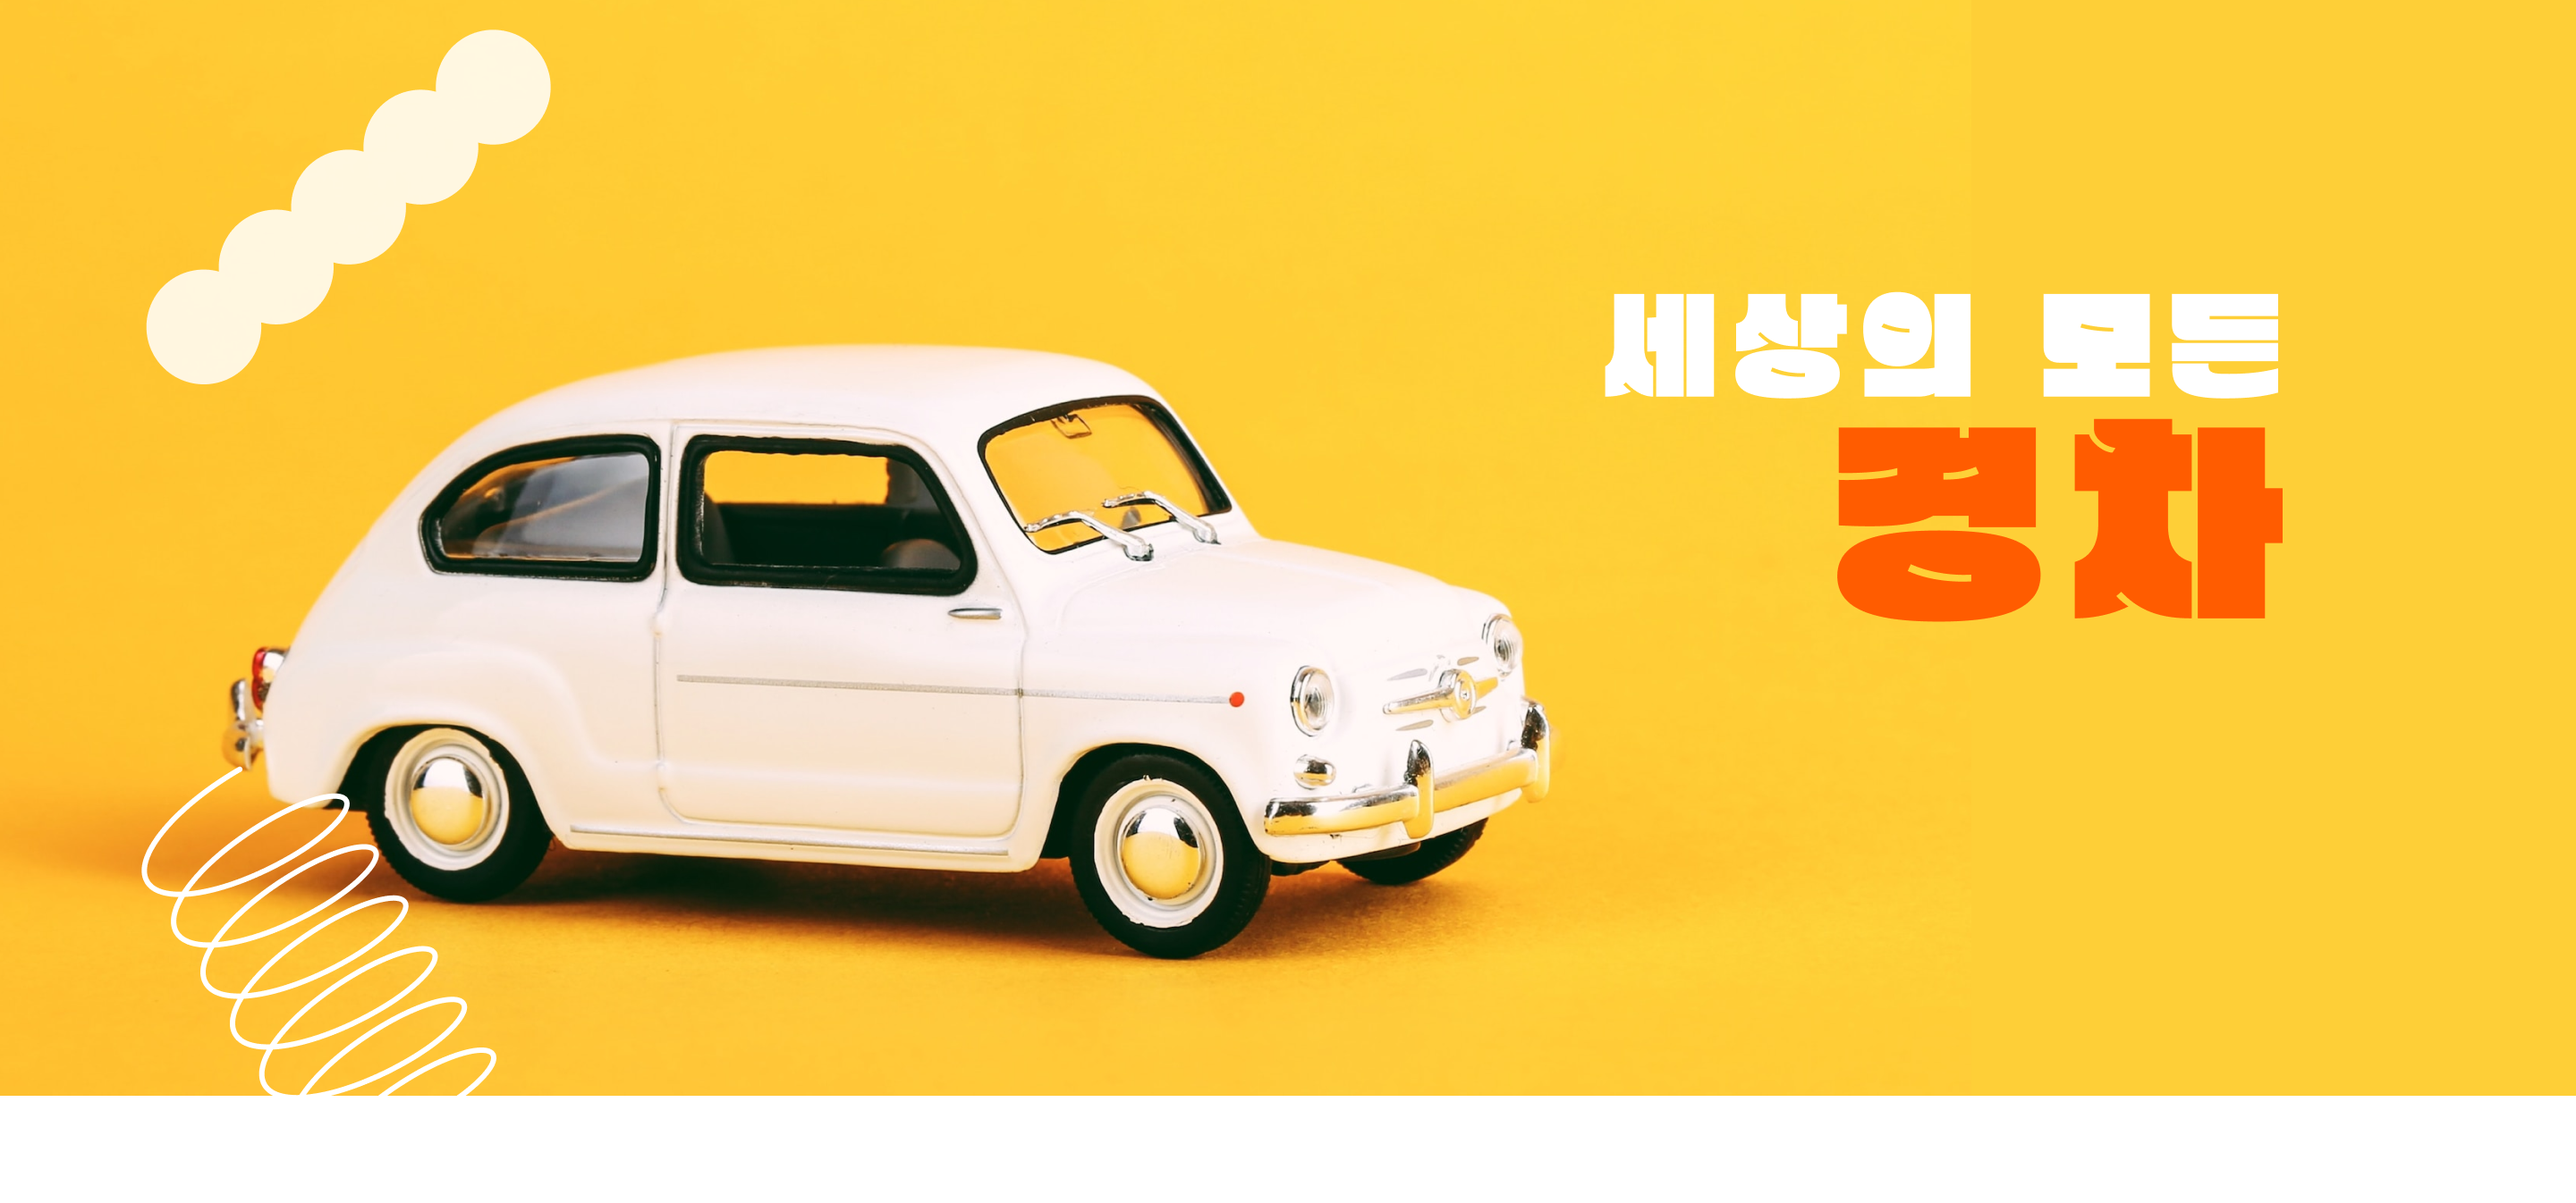
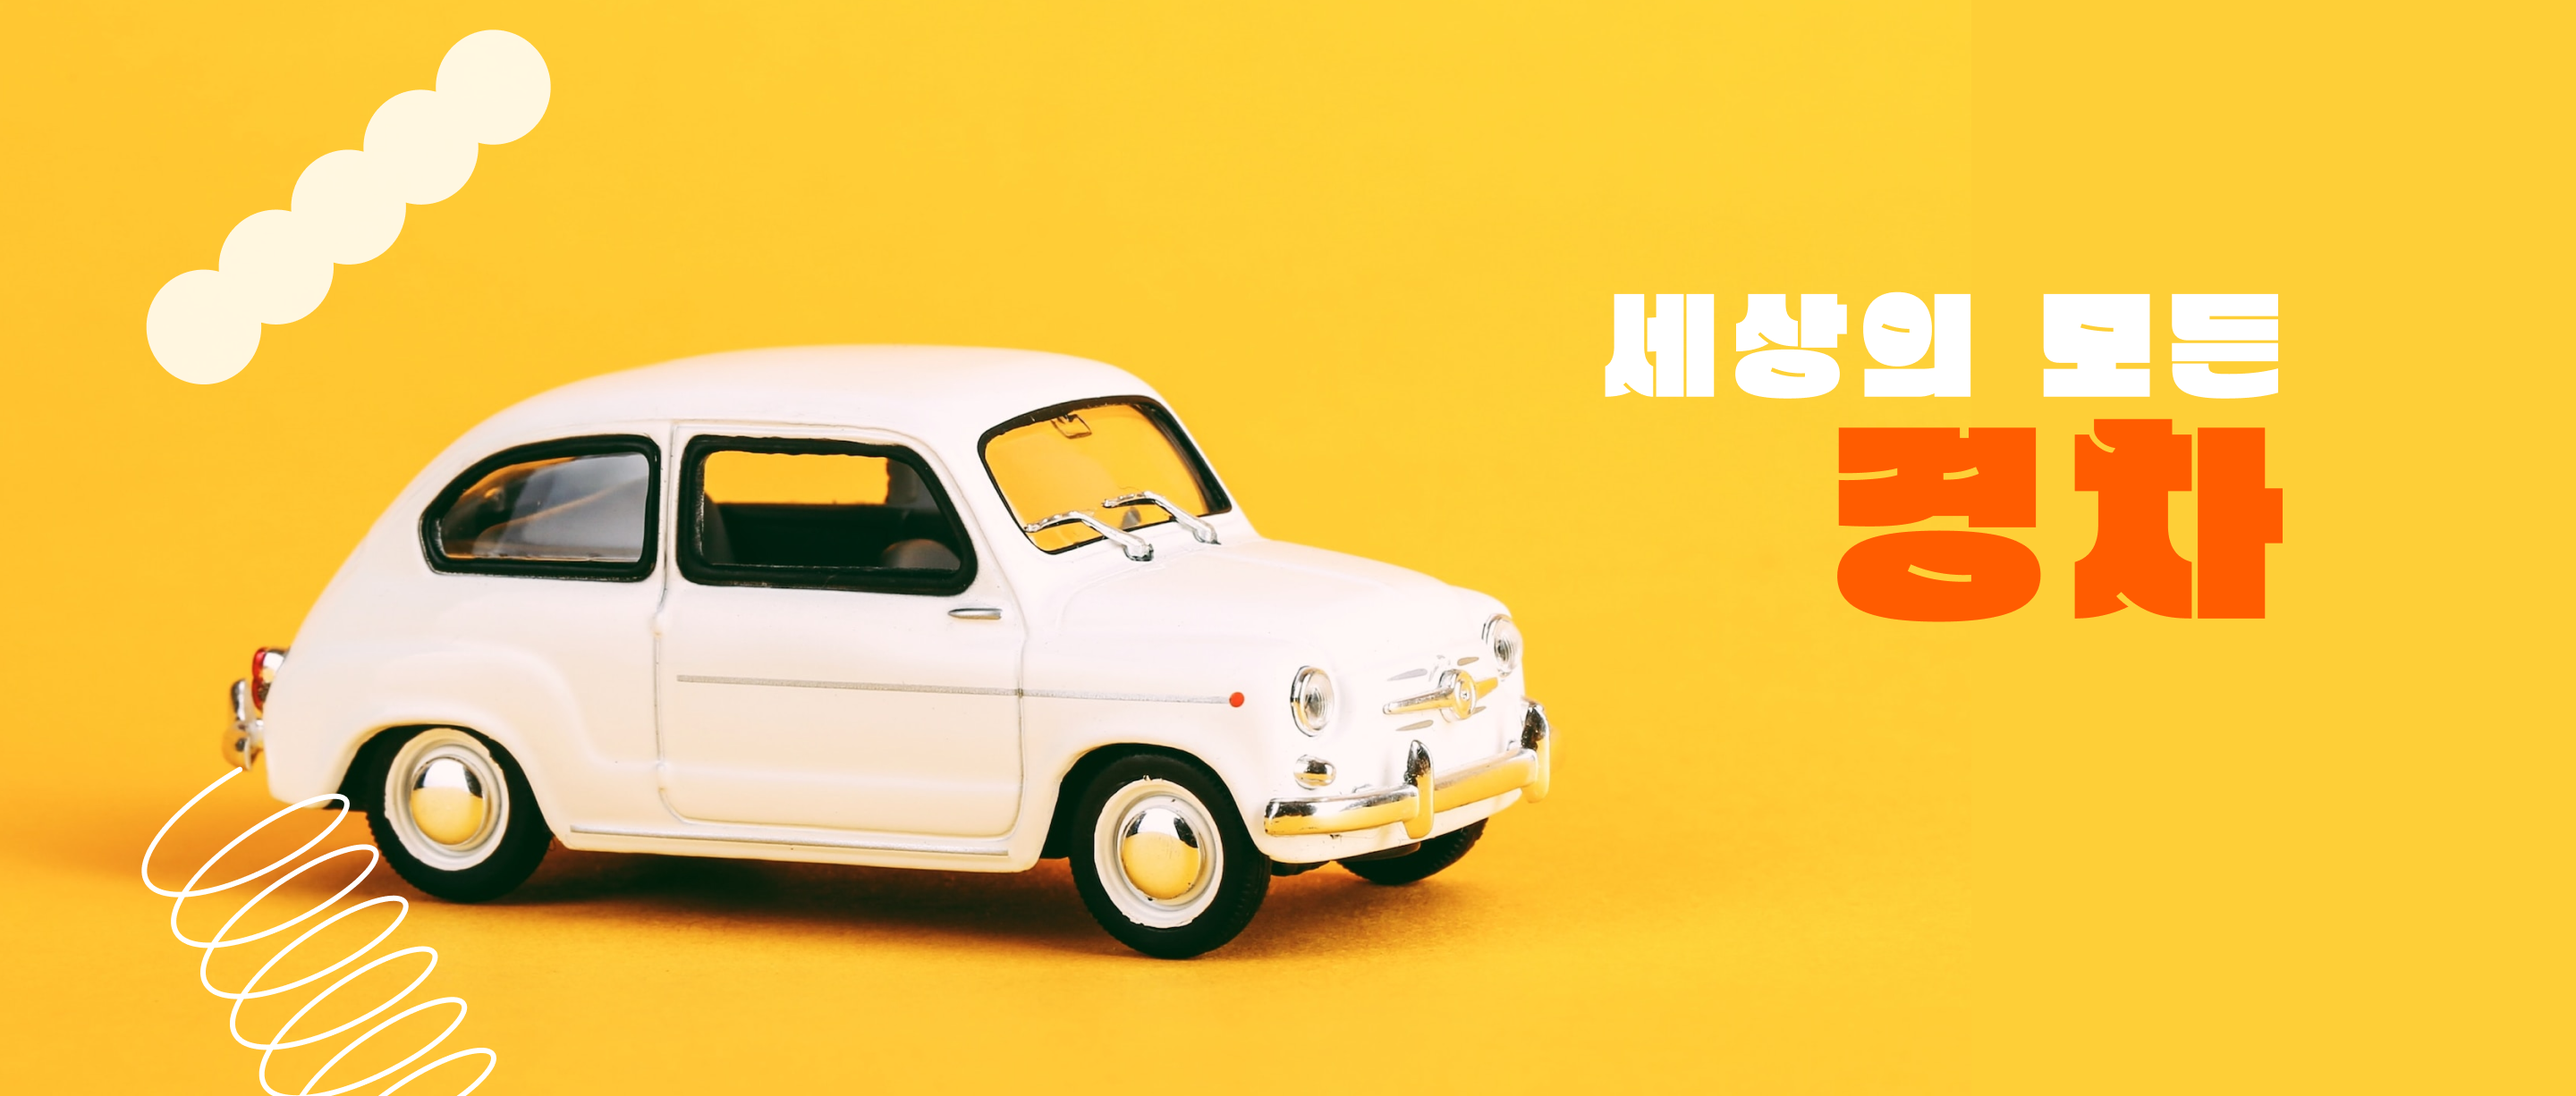
size Fix banner3 or Add btn

diff --git a/src/pages/main.tsx b/src/pages/main.tsx
@@ -9,14 +9,13 @@ import { Grid, Typography, Button } from '@mui/material'
 import 'swiper/css';
 import 'swiper/css/scrollbar';
 import "swiper/css/navigation";
-import "swiper/css/pagination";
 
 // COMPONENTS
 import { BrandNav } from '../components/BrandNav'
 
 // STYLED-COMPONENTS
 import { MaxContainer, Blank } from '../App';
-const FirstSwiper = styled(Swiper)`
+const BannerSwiper = styled(Swiper)`
 && {
   min-width: 1100px;
   margin-top: 80px;
@@ -42,14 +41,13 @@ const BannerBackgound = styled.img`
 && {
   position: relative;
   width: 100%;
-  max-height: 500px;
 }
 `;
 const Banner = styled.img`
 && {
   z-index: 1;
+  width: 100%;
   max-width: 1100px;
-  height: 100%;
   position: absolute;
   left: 50%;
   top: 50%;
@@ -142,7 +140,7 @@ const GalleryGrid = styled(Grid)`
 export function Main ():JSX.Element {
   const navigate = useNavigate();
 
-  const [carImg, setCarImg] = useState([1,2,3,4,5]);
+  const [carImg, setCarImg] = useState([1,2,3,4]);
   const [carCount, setCarCount] = useState([1,2,3,4,5,6,7,8,9,10,11]);
   const [carPhoto, setCarPhoto] = useState([
     {id: 10220, name : '쏘나타 디 엣지', imgUrl: 'hyundai/Sonata'},
@@ -158,7 +156,7 @@ export function Main ():JSX.Element {
   return (
     <>
       {/* 메인배너 SLIDE */}
-      <FirstSwiper
+      <BannerSwiper
         scrollbar={{
           hide:false,
         }}
@@ -179,12 +177,12 @@ export function Main ():JSX.Element {
         {
           carImg.map((a, i)=>(
             <SwiperSlide key={carImg[i]}>
-              <BannerBackgound src={`https://via.placeholder.com/1100x500/D8D8D8?text=Background Banner ${i+1}`} alt={`BACKGROUND${i+1}`} />
-              <Banner src={`https://via.placeholder.com/1100x500?text=Test Banner ${i+1}`} alt={`SLIDE${i+1}`}></Banner>
+              <Banner src={`https://raw.githubusercontent.com/pgw6541/CarSite/main/src/images/banner/banner${a}.png`} alt={`SLIDE${i+1}`}></Banner>
+              <BannerBackgound src={`https://via.placeholder.com/1100x300/FFFFFF?text=Background Banner ${i+1}`} alt={`BACKGROUND${i+1}`} />
             </SwiperSlide>
           ))
         }
-      </FirstSwiper>
+      </BannerSwiper>
 
       {/* <Blank /> */}
 
@@ -200,11 +198,11 @@ export function Main ():JSX.Element {
             slidesPerView={4}
             slidesPerGroup={4}
             spaceBetween={60}
-            modules={[Pagination]}
+            // modules={[Pagination]}
             className="mySwiper"
-            pagination={{
-              dynamicBullets: true,
-            }}
+            // pagination={{
+            //   dynamicBullets: true,
+            // }}
             >
             {
               carCount.map((a,i)=>(
